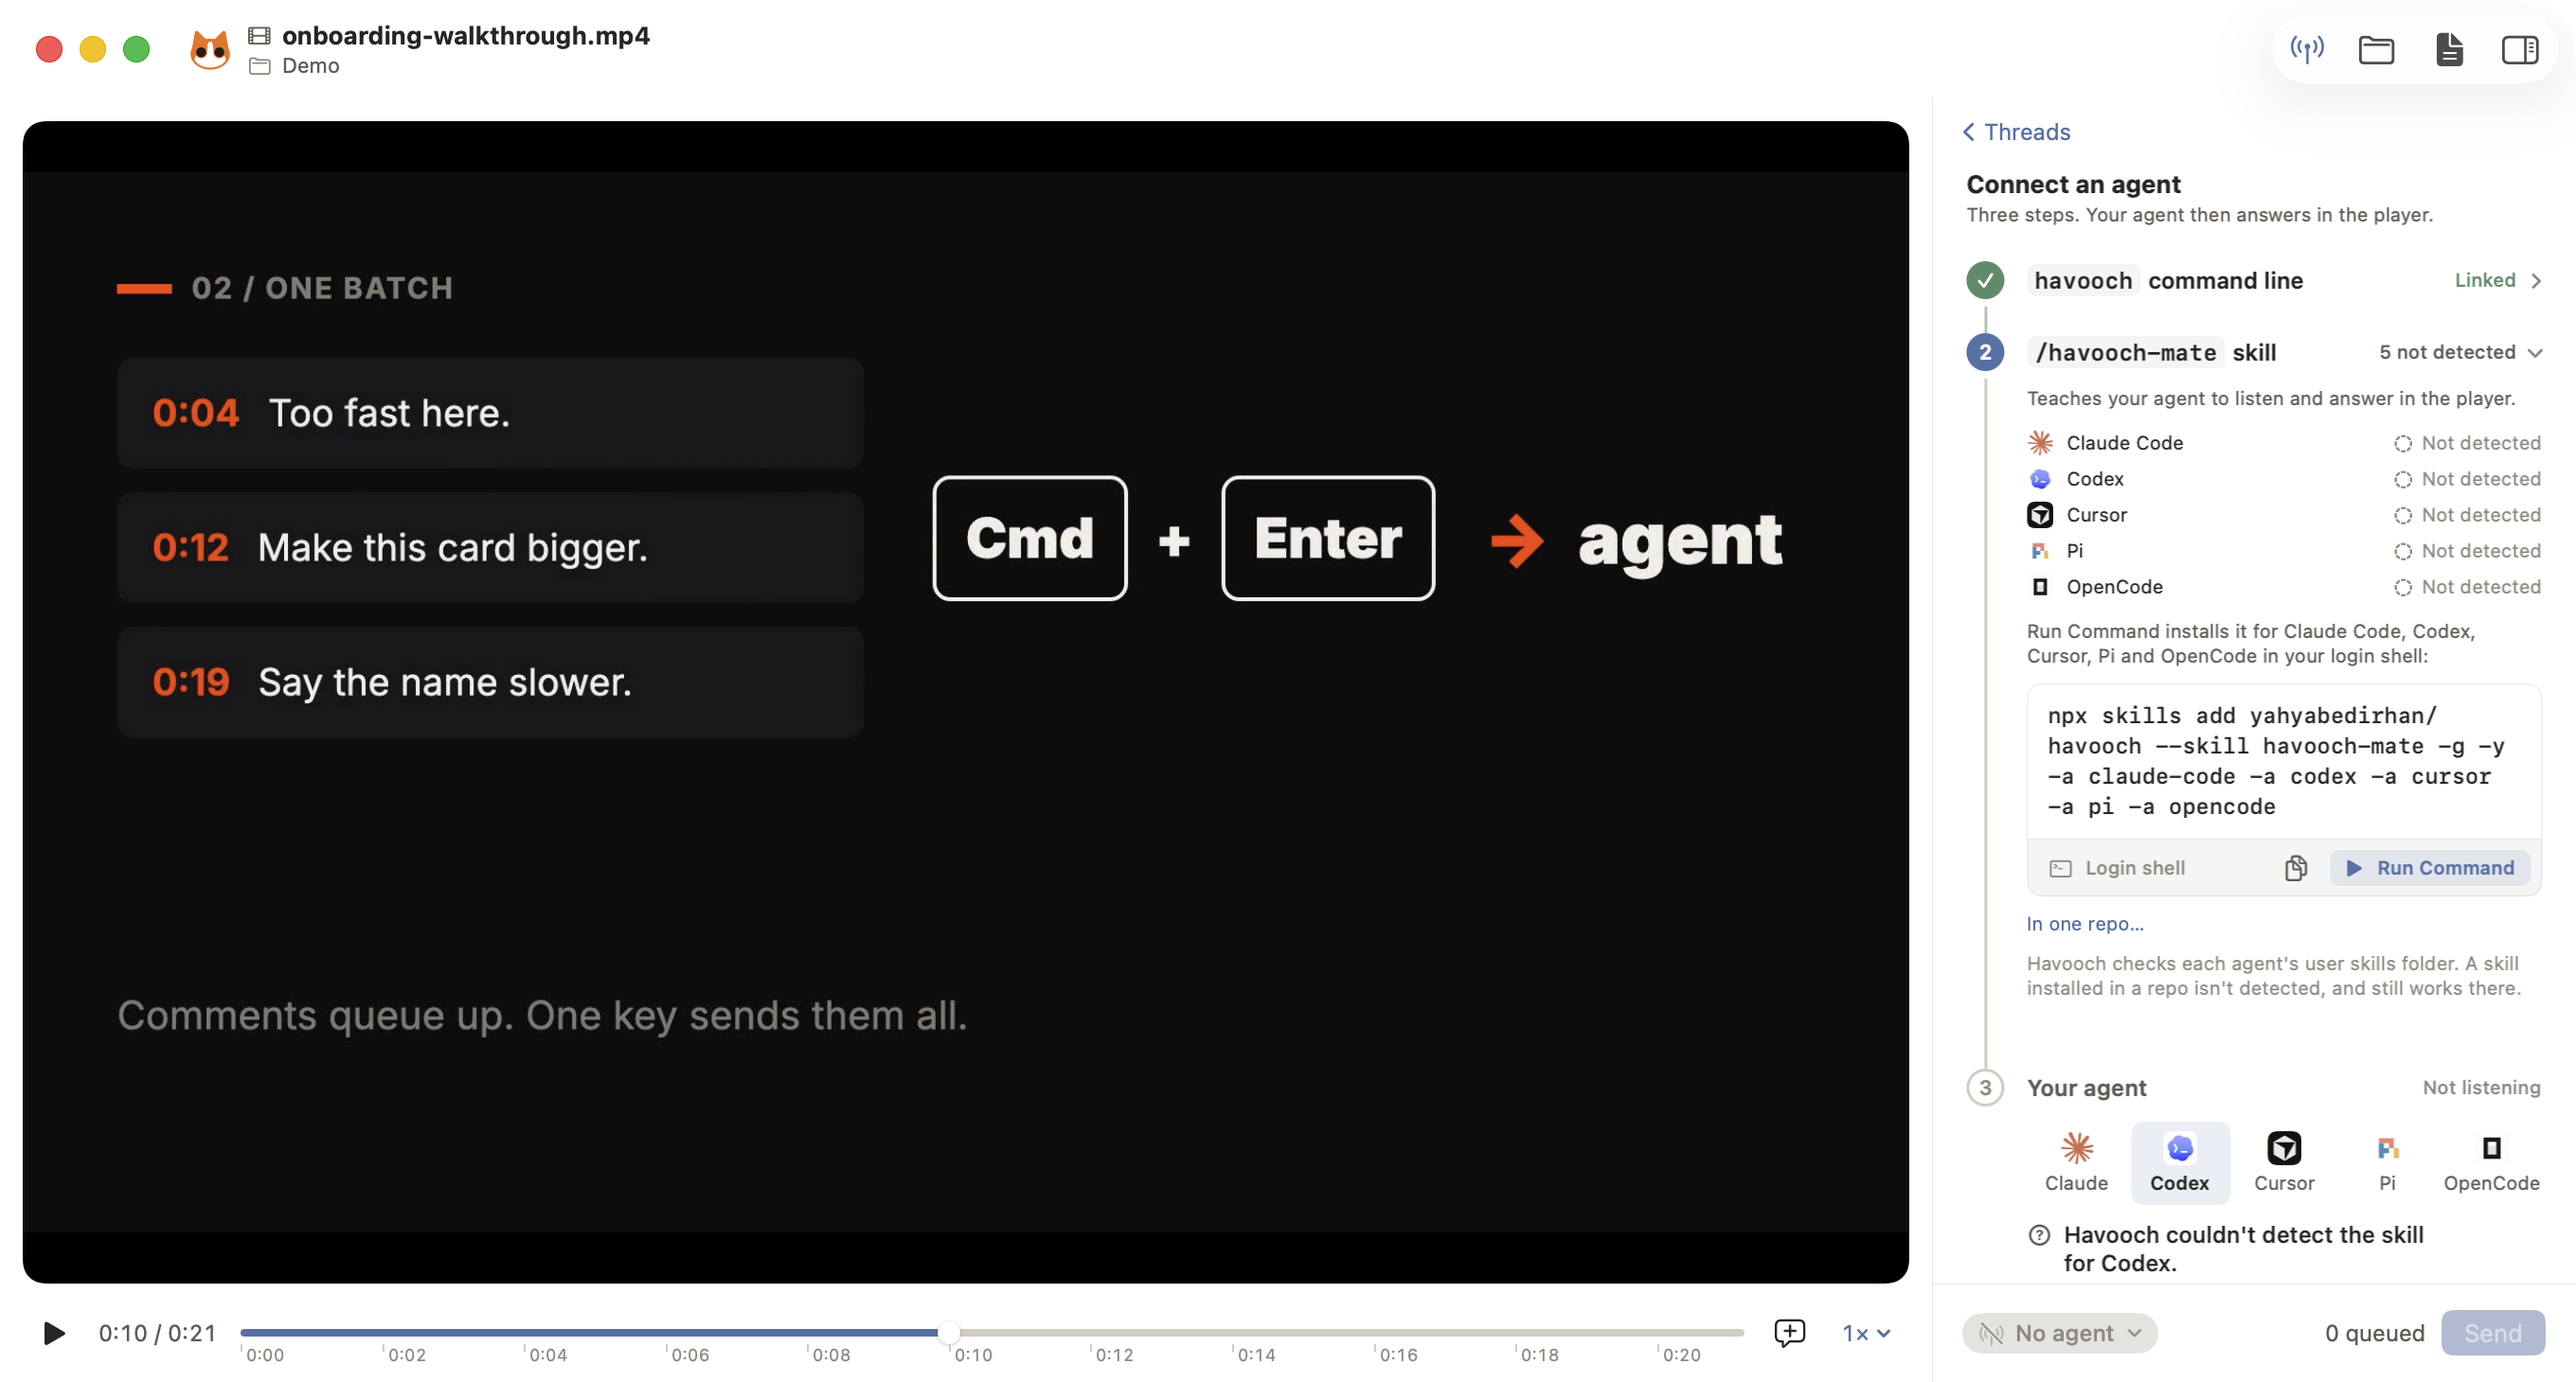
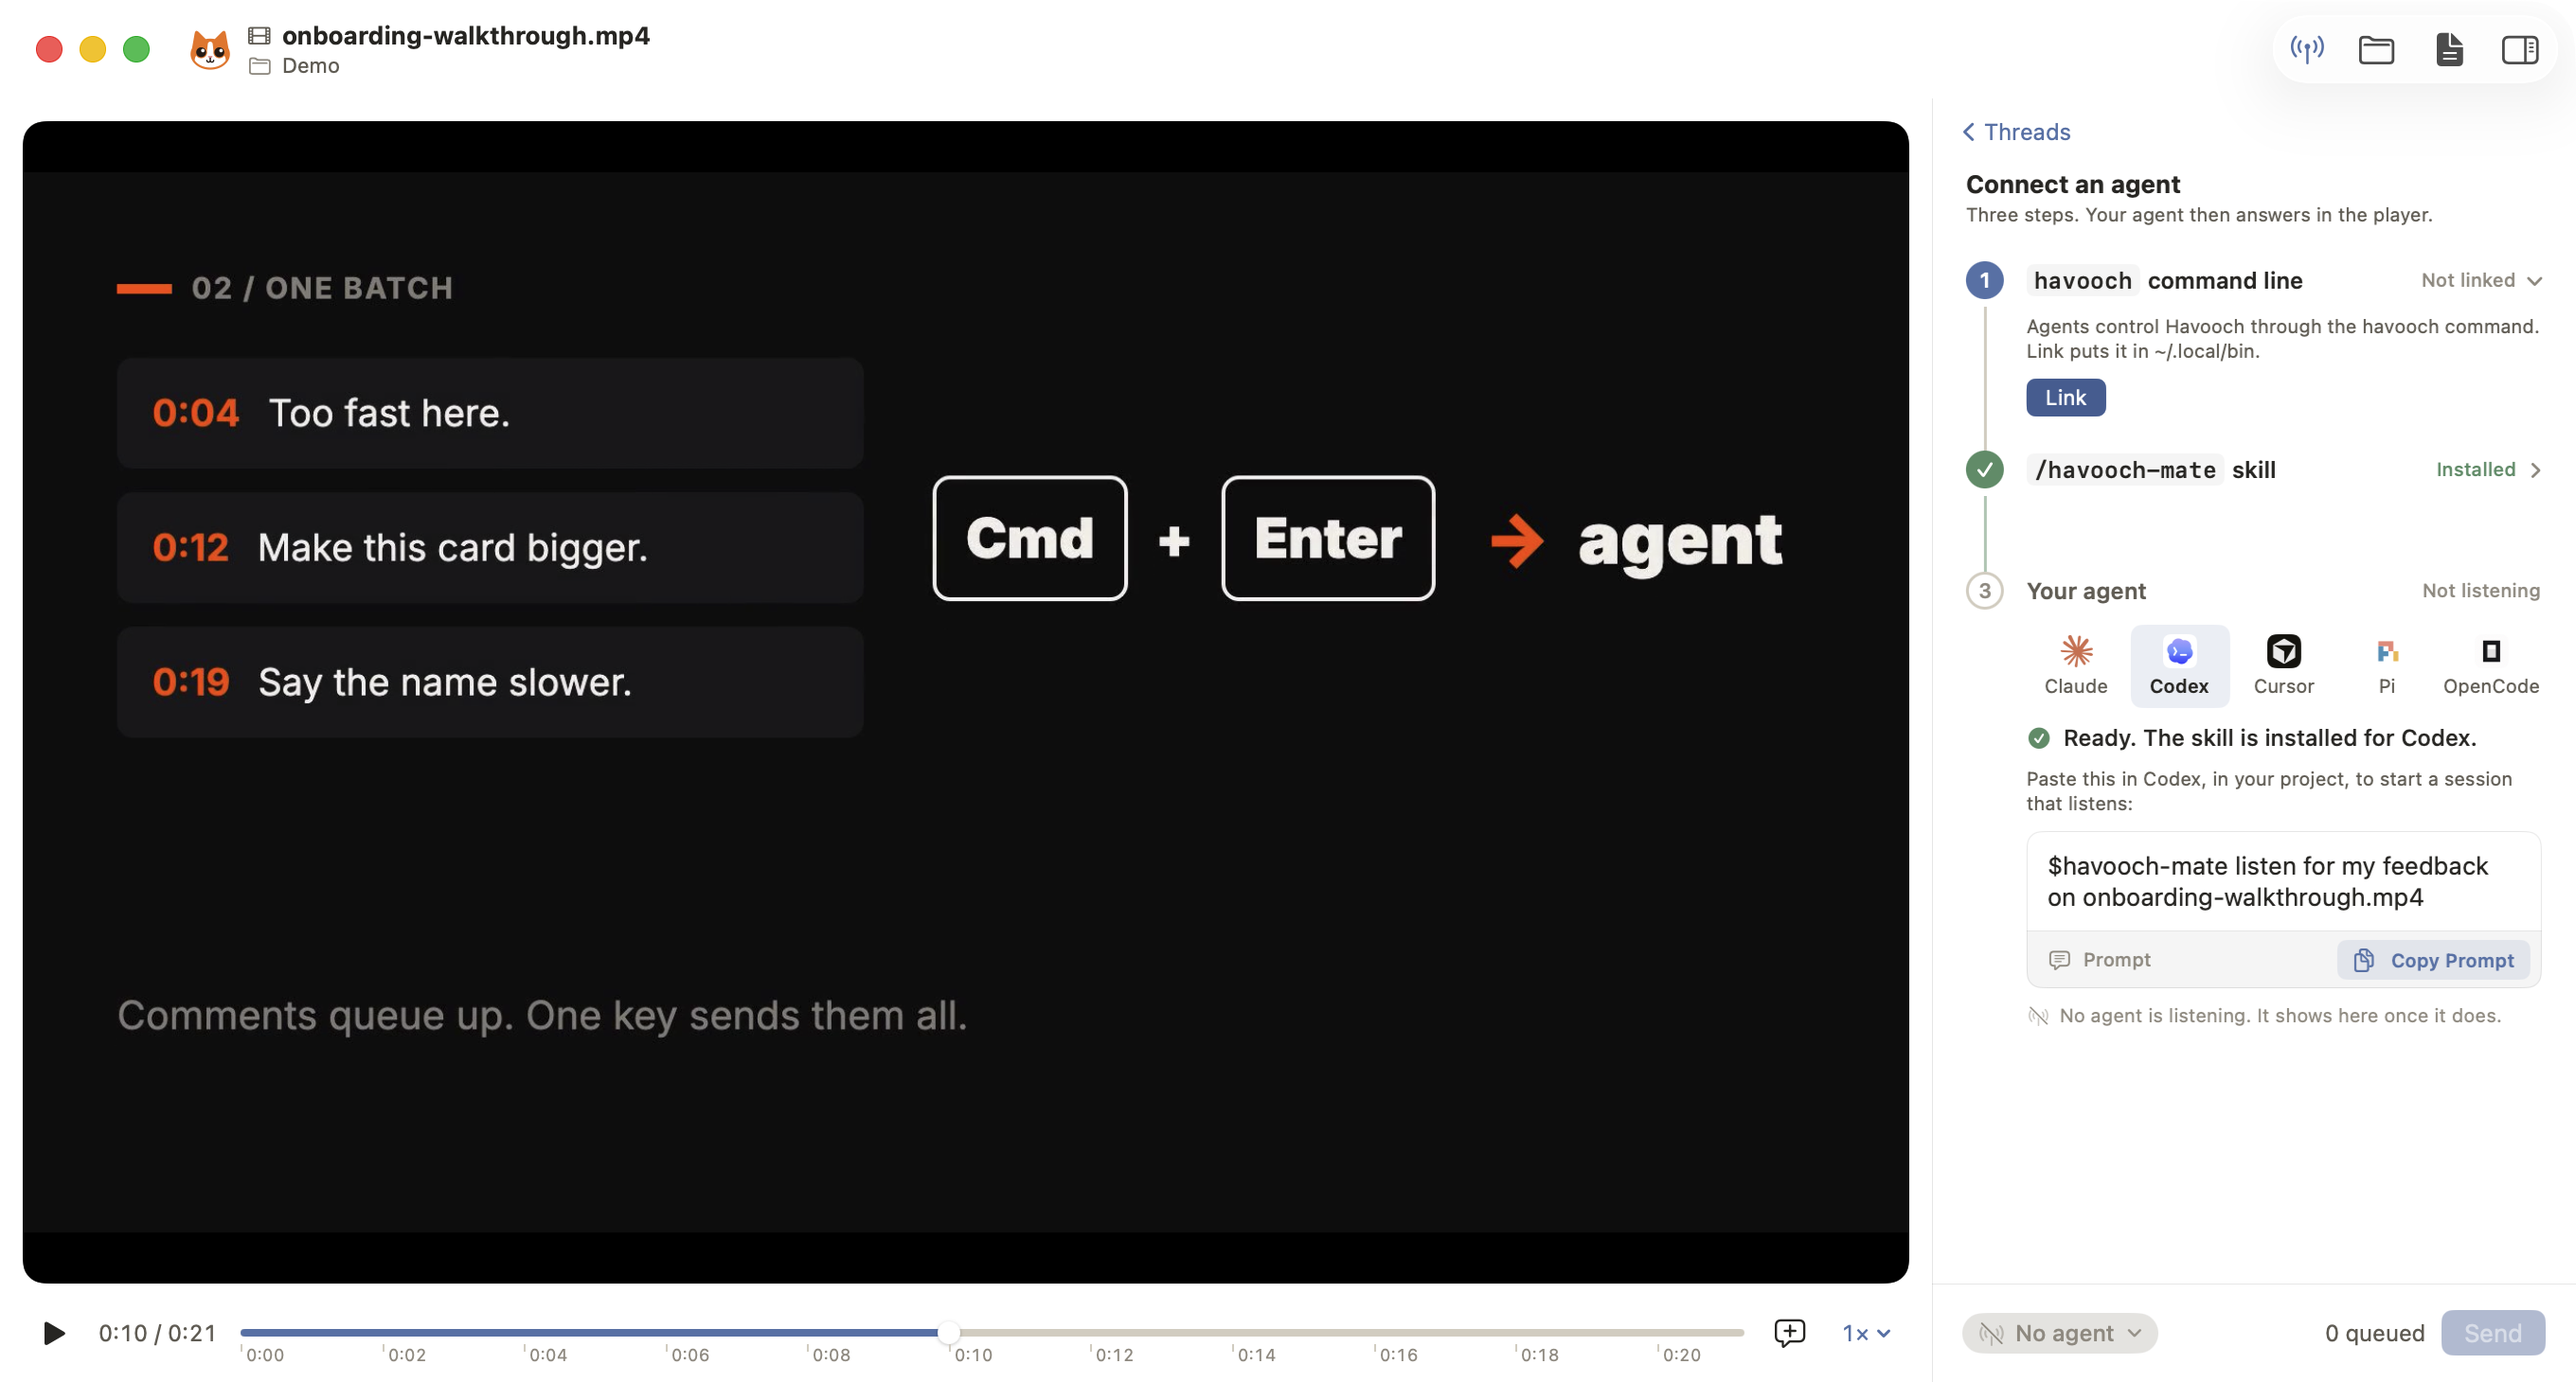
docs: retake the readme screenshots with the cat's face in the header
- the screenshots came from a build before the header mark got its face
  back; these are taken from main after that fix, from the same scenes
- the connect view and first-run captions follow what the screenshots
  show now: the command isn't linked and the skill is installed

diff --git a/docs/guide.md b/docs/guide.md
@@ -57,7 +57,7 @@ The install script downloads with `curl`, which sets no quarantine flag, so macO
 
 On the first launch Havooch shows a short first-run window: Welcome, Tools, Connect and Try It. You can skip any step. Until an agent connects, **Finish setup** in the header shows how many setup steps are left and opens a tour of the window.
 
-![The first-run window's Connect step: pick your agent, install the skill, and copy the prompt that opens the demo video](../assets/screenshots/0.4.0/first-run/connect-light.png)
+![The first-run window's Connect step: pick your agent and copy the prompt that opens the demo video](../assets/screenshots/0.4.0/first-run/connect-light.png)
 
 ## Windows, home and recent videos
 

diff --git a/README.md b/README.md
@@ -45,7 +45,7 @@ Open the **Connect** view from the header and follow its three steps:
 
 Now send your comments, and your agent picks them up.
 
-![The Connect view: the command is linked, the skill isn't detected for any agent yet, and Codex is picked](assets/screenshots/0.4.0/connect/connect-view-light.png)
+![The Connect view: the command isn't linked yet, the skill is installed, and Codex is picked](assets/screenshots/0.4.0/connect/connect-view-light.png)
 
 ### What the command and the skill do
 
